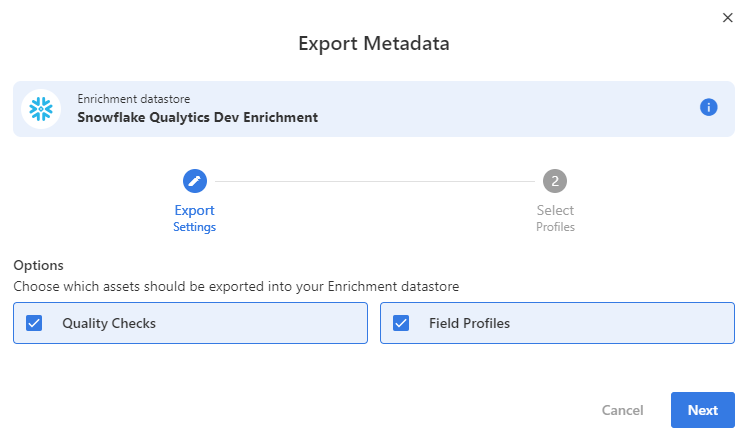
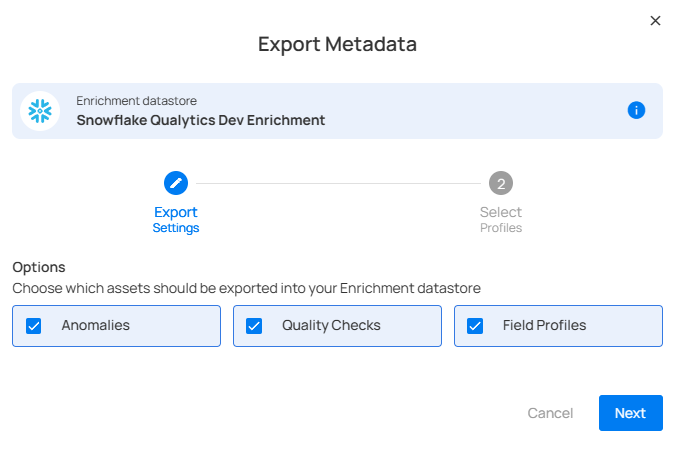
Update the Export Metadata page to include new `anomaly` option
In short:
- updated some images to reflect the new option
- some topics were slightly adjusted to include the new option
- changed the example flow to start from Datastore rather than a specific container

diff --git a/docs/container/export-metadata.md b/docs/container/export-metadata.md
@@ -1,35 +1,38 @@
-## Export Quality Checks and Field Profiles to an Enrichment Datastore
+# Export Metadata
 
-Qualytics enables the exportation of Quality Checks and Field Profiles metadata from selected containers. Upon initiating the export, this metadata is stored in the designated enrichment datastore. The stored metadata will be named using the pattern `_<datastore_name>_checks` for Quality Checks and `_<datastore_name>_field_profiles `for Field Profiles.
+Qualytics's metadata export feature is specifically designed to capture the mutable states of various data entities. This functionality enables the export of Quality Checks, Field Profiles, and Anomalies metadata from selected profiles into a designated enrichment datastore. For easy identification and organization, the exported metadata follows distinct naming patterns:
 
-## **Prerequisites**
+- **Anomalies**: stored as `_<datastore_name>_anomalies`.
+- **Quality Checks**: stored as `_<datastore_name>_checks`.
+- **Field Profiles**: stored as `_<datastore_name>_field_profiles`.
 
-Before exporting quality checks and field profiles, ensure that you have the following:
+## Prerequisites
 
-* **An enrichment datastore already setup that can accommodate the exported data**
+Before exporting, ensure the following prerequisite is met:
 
-## **Exporting Quality Checks**
+- **Enrichment Datastore Configured**: Have an enrichment datastore already set up and configured, capable of accommodating the exported data. This setup is required to enable the export process of anomalies, quality checks, and field profiles.
 
-To export quality checks, follow these steps:
+## Exporting to an Enrichment Datastore
 
-1. **Navigate to the Datastore and select Profiles section**
-2. **Select the containers you want to export the data**
-3. **Click the "Export" button**
+Follow these steps to export the metadata:
 
-    ![Screenshot](../assets/container/export-metadata-light.png#only-light)
-    ![Screenshot](../assets/container/export-metadata-dark.png#only-dark)
+1. **Access the Datastore Page**: Go to the Datastore page and locate the 'Enrichment Datastore' section, which should be present right below the breadcrumbs.
+2. **Open Export Dialog**: In the Enrichment Datastore section, click on the 'Export Metadata' button to open the dialog.
 
-4. **You can choose if you want to export the checks and field profiles**
+    ![Screenshot](../assets/datastores/enrichment-datastore-export-icon-light.png#only-light){: style="width:676px"}
+    ![Screenshot](../assets/datastores/enrichment-datastore-export-icon-dark.png#only-dark){: style="width:676px"}
 
-    ![Screenshot](../assets/container/export-options-light.png#only-light)
-    ![Screenshot](../assets/container/export-options-dark.png#only-dark)
+3. **Choose Data to Export**: In the dialog, specify whether you want to export anomalies, quality checks, or field profiles.
 
-5. **You can select all or specific containers to export**
+    ![Screenshot](../assets/container/export-options-light.png#only-light){: style="width:676px"}
+    ![Screenshot](../assets/container/export-options-dark.png#only-dark){: style="width:676px"}
 
-    ![Screenshot](../assets/container/export-profiles-light.png#only-light)
-    ![Screenshot](../assets/container/export-profiles-dark.png#only-dark)
+4. **Profiles Selection**: Choose the profiles from which you wish to export data.
 
-6. **Click the "Export" button to export the data into the enrichment**
-    ![Screenshot](../assets/container/export-success-light.png#only-light)
-    ![Screenshot](../assets/container/export-success-dark.png#only-dark)
+    ![Screenshot](../assets/container/export-profiles-light.png#only-light){: style="width:676px"}
+    ![Screenshot](../assets/container/export-profiles-dark.png#only-dark){: style="width:676px"}
 
+6. **Confirm Export**: Click the "Export" button in the dialog to begin the export process into the enrichment datastore.
+
+    ![Screenshot](../assets/container/export-success-light.png#only-light){: style="width:676px"}
+    ![Screenshot](../assets/container/export-success-dark.png#only-dark){: style="width:676px"}
